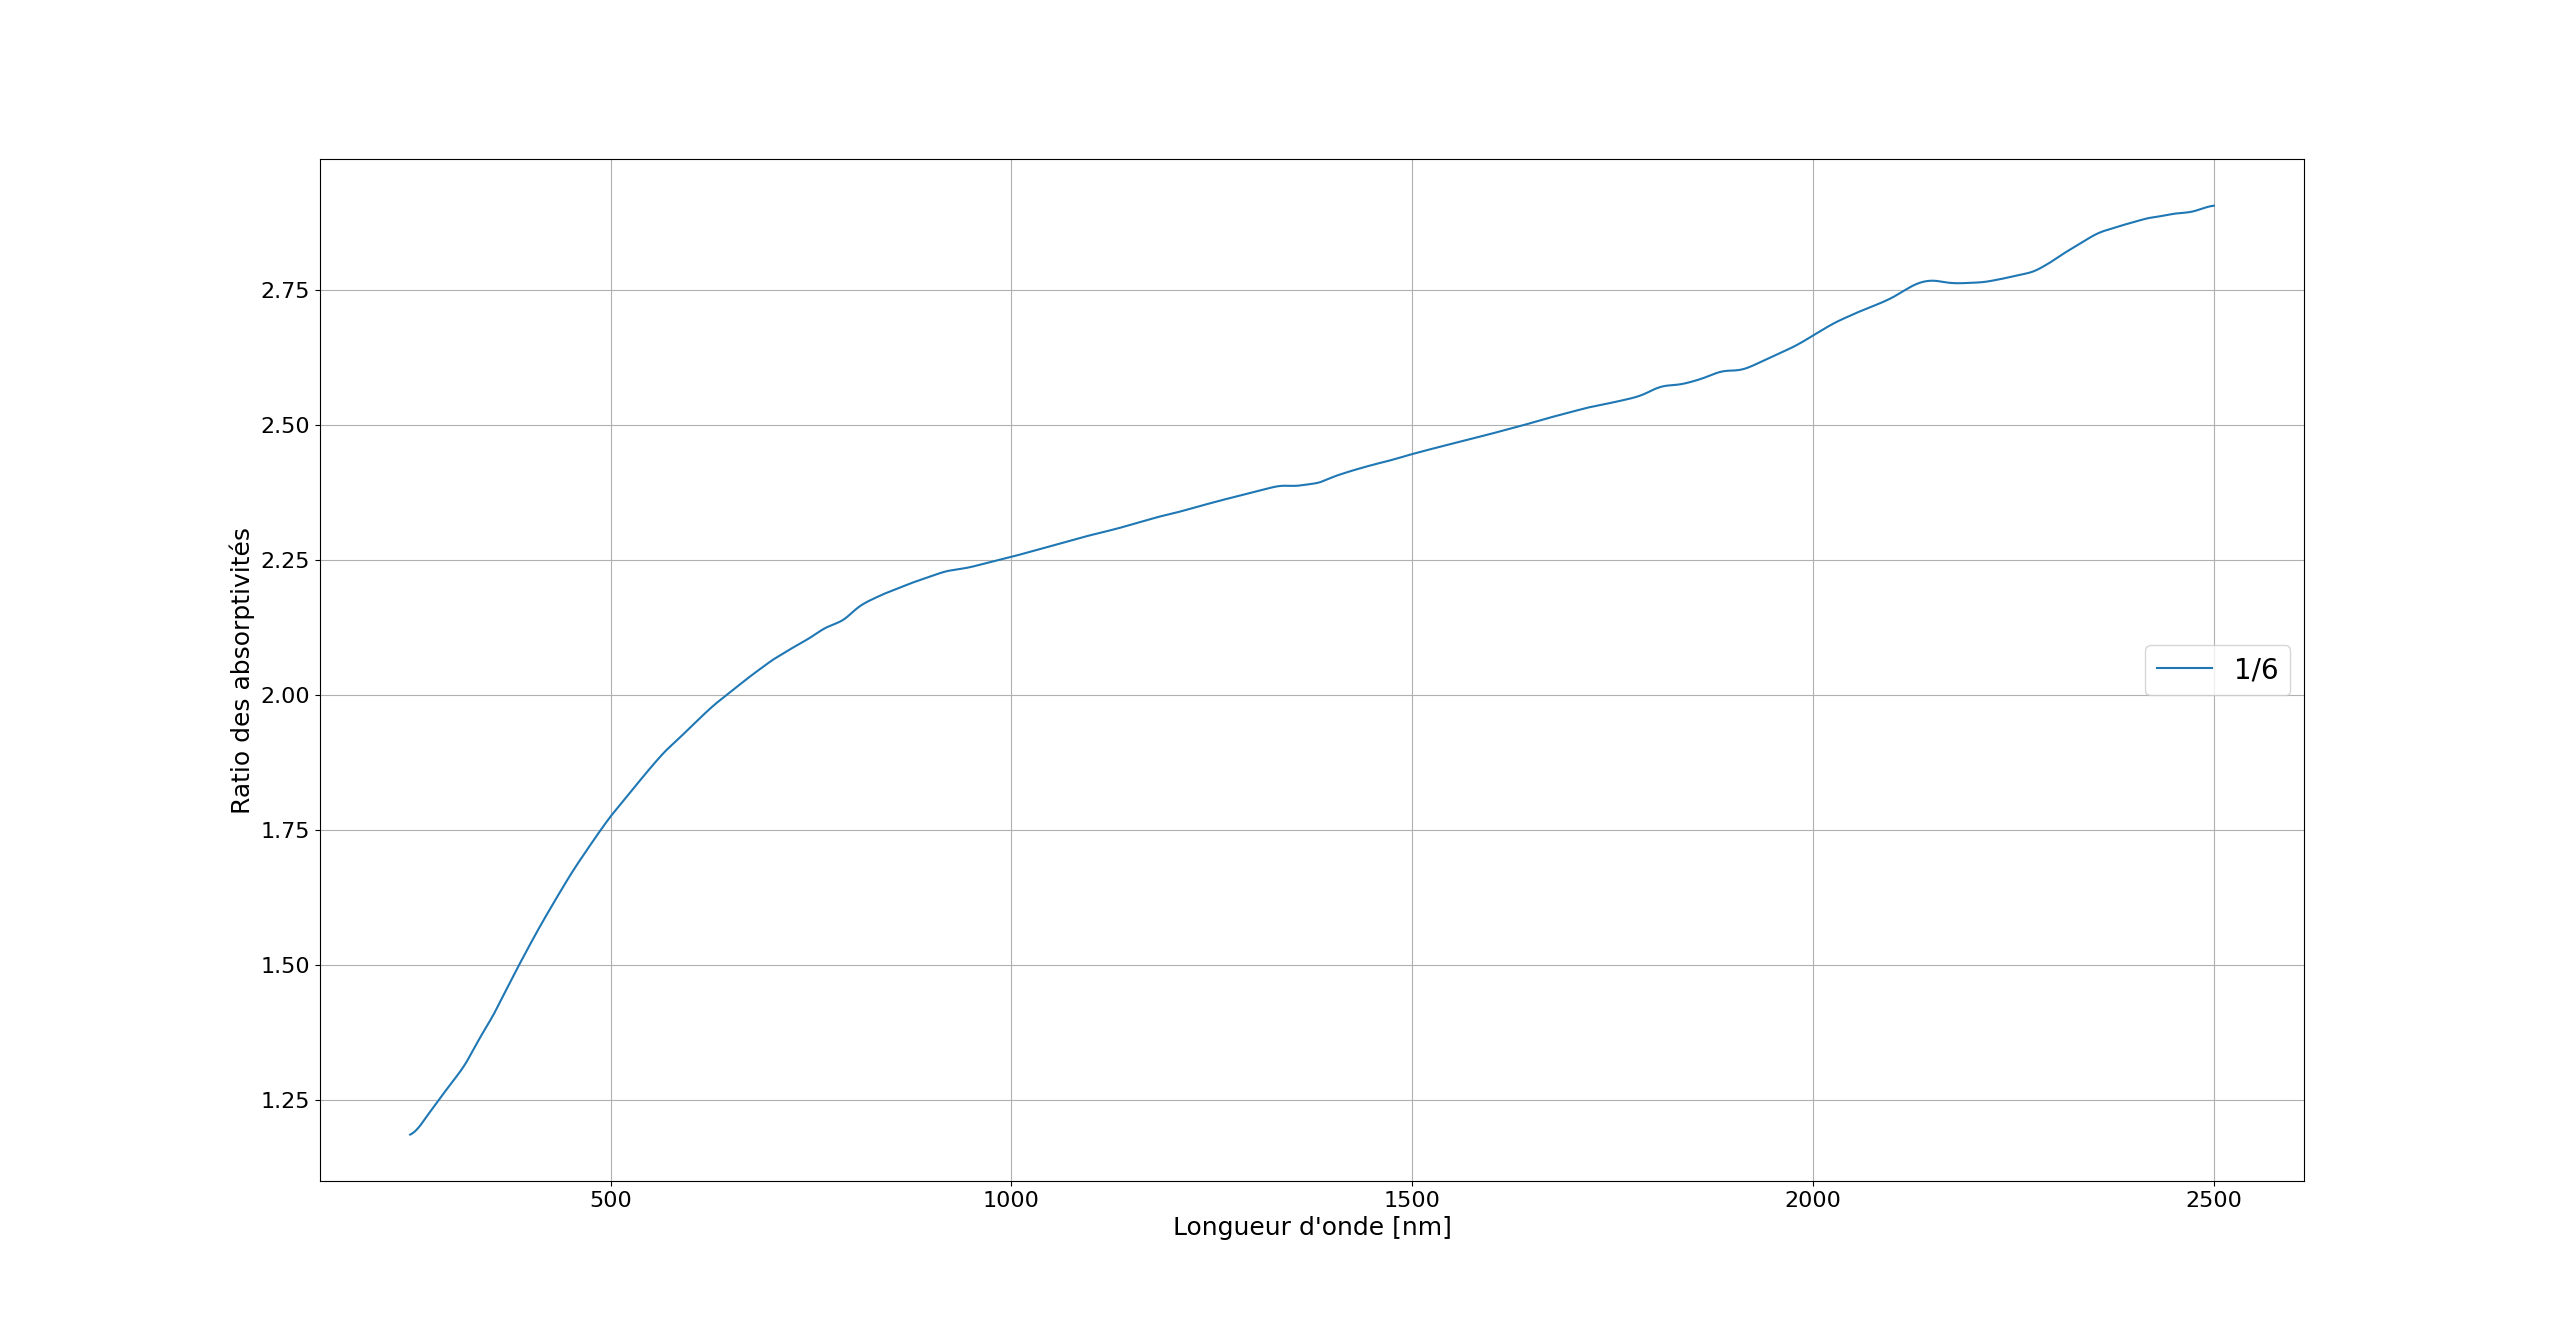
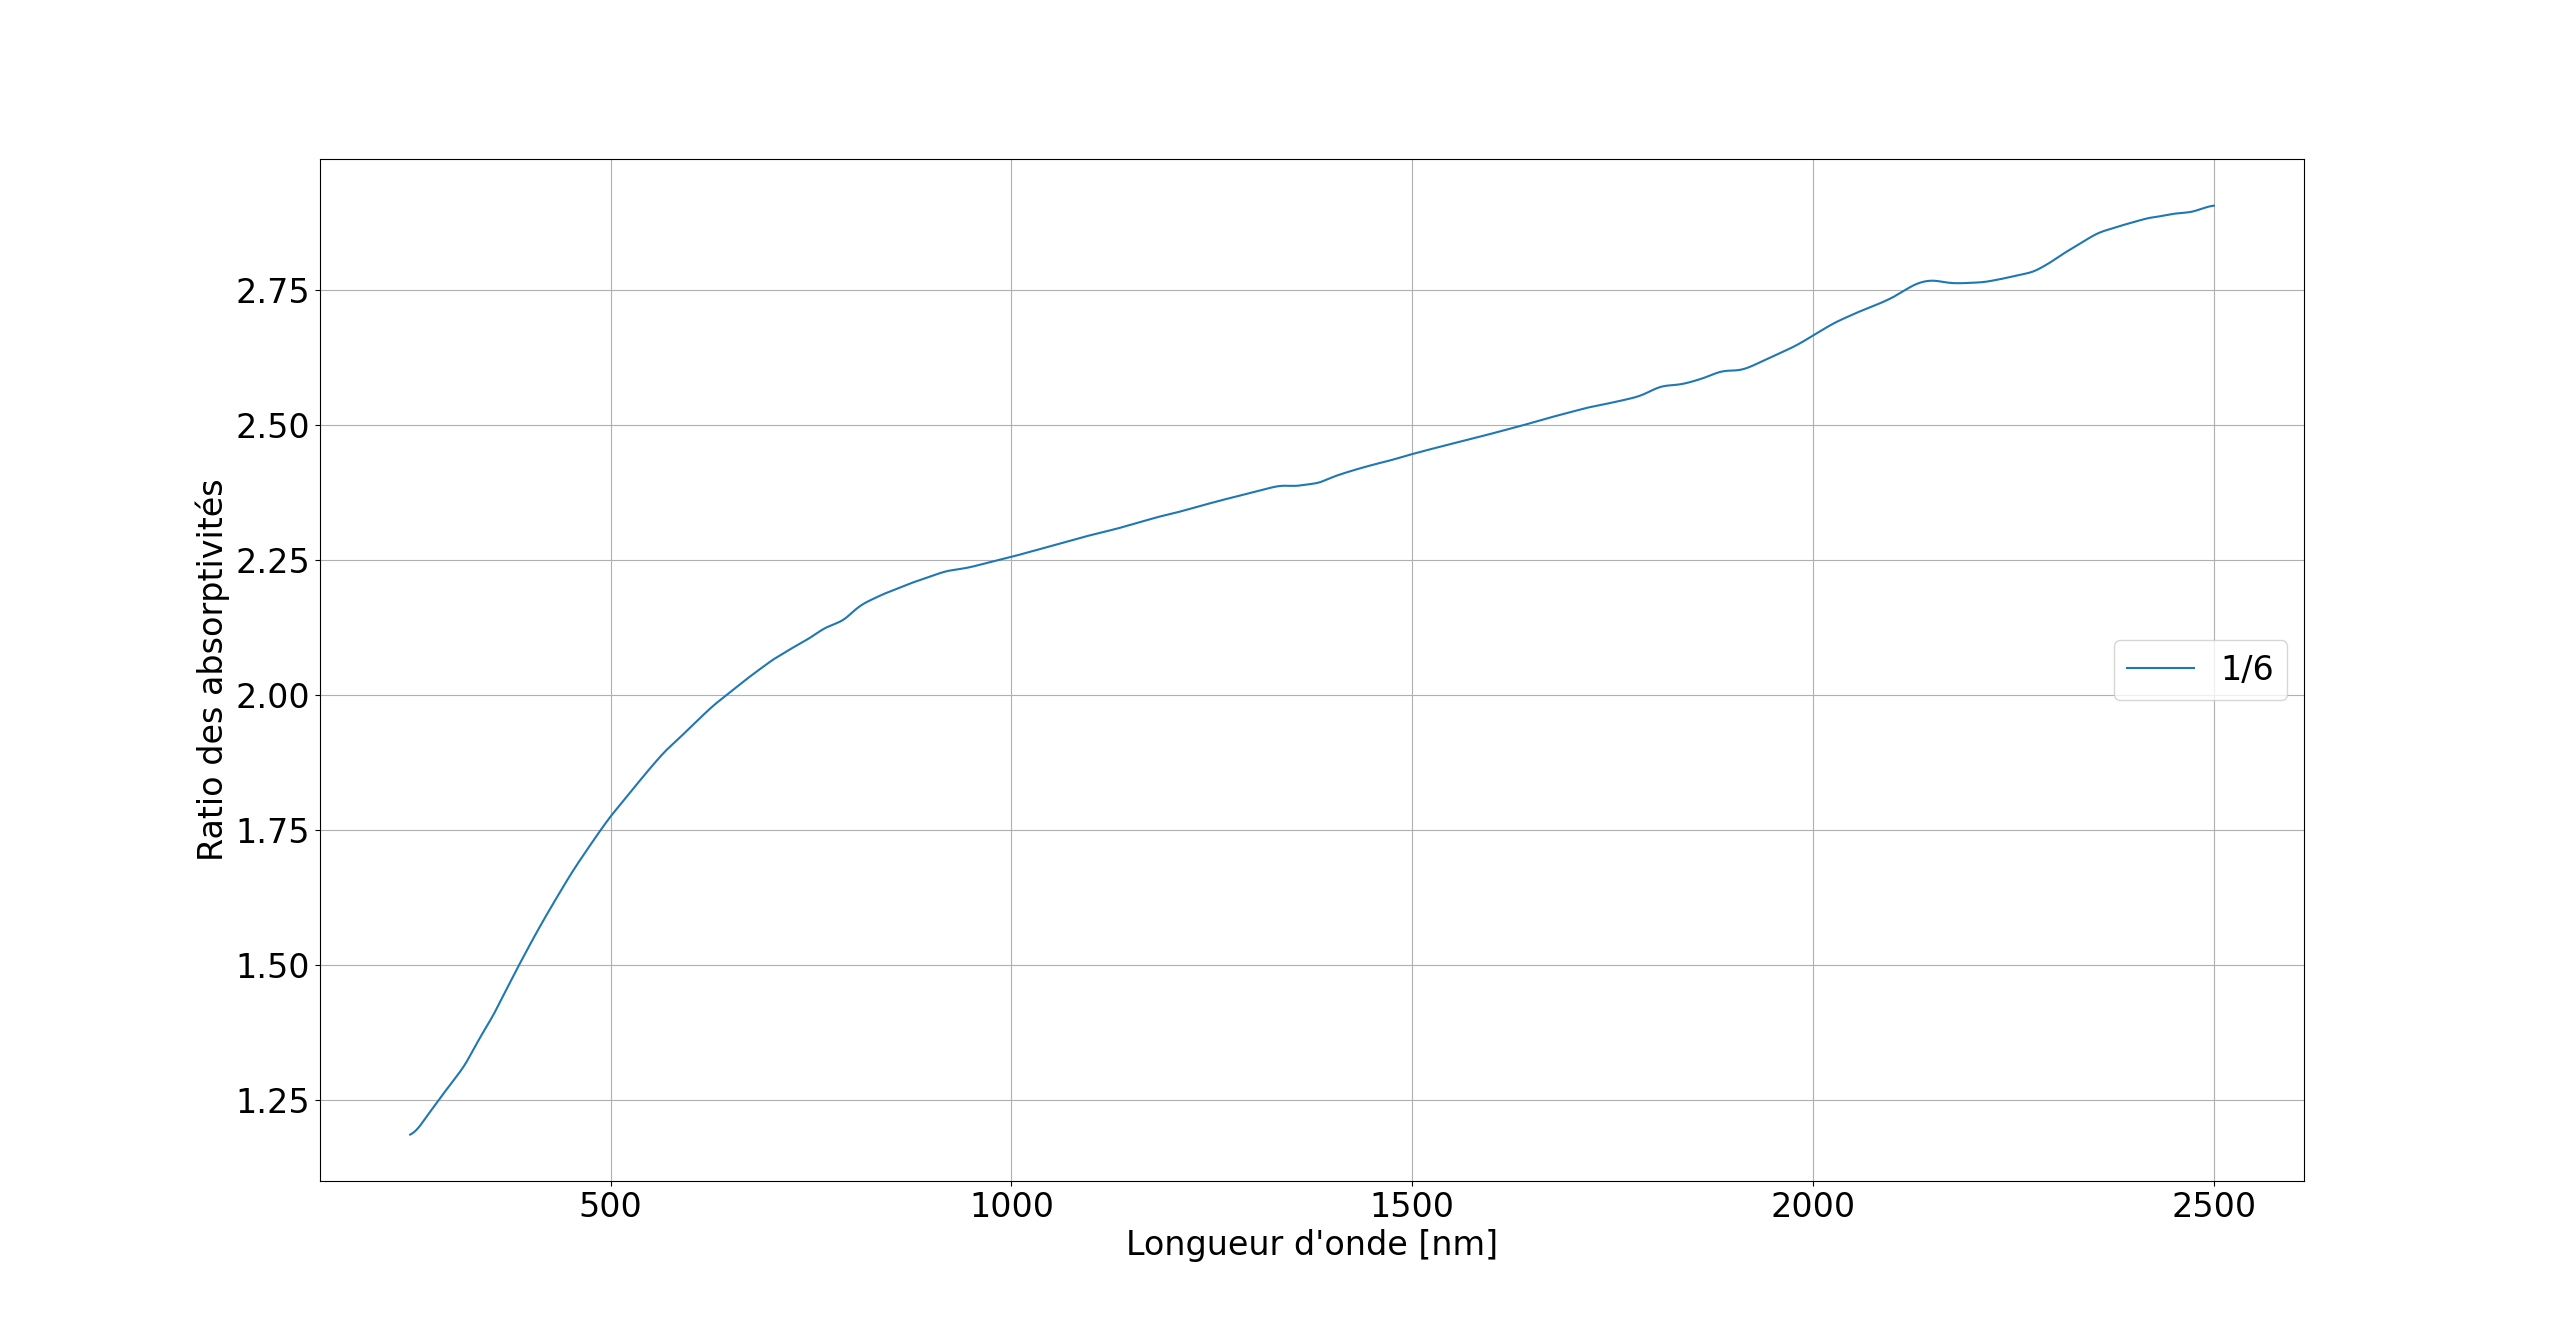
absorption_graphs_rust

diff --git a/Absorption Graphs/Cary7000.py b/Absorption Graphs/Cary7000.py
@@ -17,10 +17,10 @@ data_path_echs_noir = Path(r"Absorption Graphs\Equipe4_ech.csv")
 data_path = Path(r"Absorption Graphs\Plaques_Alexandre.csv")
 
 plt.rcParams.update({
-    "axes.labelsize": 18,    # Axis labels
-    "xtick.labelsize": 16,   # X-axis tick labels
-    "ytick.labelsize": 16,   # Y-axis tick labels
-    "legend.fontsize": 20    # Legend
+    "axes.labelsize": 24,    # Axis labels
+    "xtick.labelsize": 24,   # X-axis tick labels
+    "ytick.labelsize": 24,   # Y-axis tick labels
+    "legend.fontsize": 24    # Legend
 })
 
 app = xl.App(visible=False)
@@ -45,6 +45,10 @@ wv_5 = np.array([x[2] for x in split_arr], dtype=float)                         
 wv_6 = np.array([x[0] for x in split_arr], dtype=float)                         # 6
 wv_n = np.array([x[8] for x in split_arr], dtype=float)                         # BBQ
 
+wv_rust_1 = np.array([x[4] for x in split_arr_echs_noir], dtype=float)    # rust 1
+wv_rust_2 = np.array([x[6] for x in split_arr_echs_noir], dtype=float)    # rust 2
+wv_rust_3 = np.array([x[8] for x in split_arr_echs_noir], dtype=float)    # rust 2
+
 a_baseline_100 = 100.0 - np.array([x[1] for x in split_arr_echs_noir], dtype=float)    # ref abs
 a_baseline_0 = 100.0 - np.array([x[3] for x in split_arr_echs_noir], dtype=float)      # ref refl
 a_1 = 100.0 - np.array([x[11] for x in split_arr_echs_noir], dtype=float)              # 1
@@ -54,6 +58,20 @@ a_4 = 100.0 - np.array([x[5] for x in split_arr], dtype=float)                  
 a_5 = 100.0 - np.array([x[3] for x in split_arr], dtype=float)                         # 5
 a_6 = 100.0 - np.array([x[1] for x in split_arr], dtype=float)                         # 6
 a_n = 100.0 - np.array([x[9] for x in split_arr], dtype=float)                         # BBQ
+
+a_rust_1 = 100.0 - np.array([x[5] for x in split_arr_echs_noir], dtype=float)    # rust 1
+a_rust_2 = 100.0 - np.array([x[7] for x in split_arr_echs_noir], dtype=float)    # rust 2
+a_rust_3 = 100.0 - np.array([x[9] for x in split_arr_echs_noir], dtype=float)    # rust 3
+
+# rust plots
+plt.plot(wv_rust_1, a_rust_1, label="Échantillon non rouillé")
+plt.plot(wv_rust_2, a_rust_2, label="Échantillon rouillé 1")
+plt.plot(wv_rust_3, a_rust_3, label="Échantillon rouillé 2")
+plt.xlabel("Longueur d'onde [nm]")
+plt.ylabel("Absorptivité [%]")
+plt.grid(True)
+plt.legend()
+plt.show()
 
 # ratios
 
